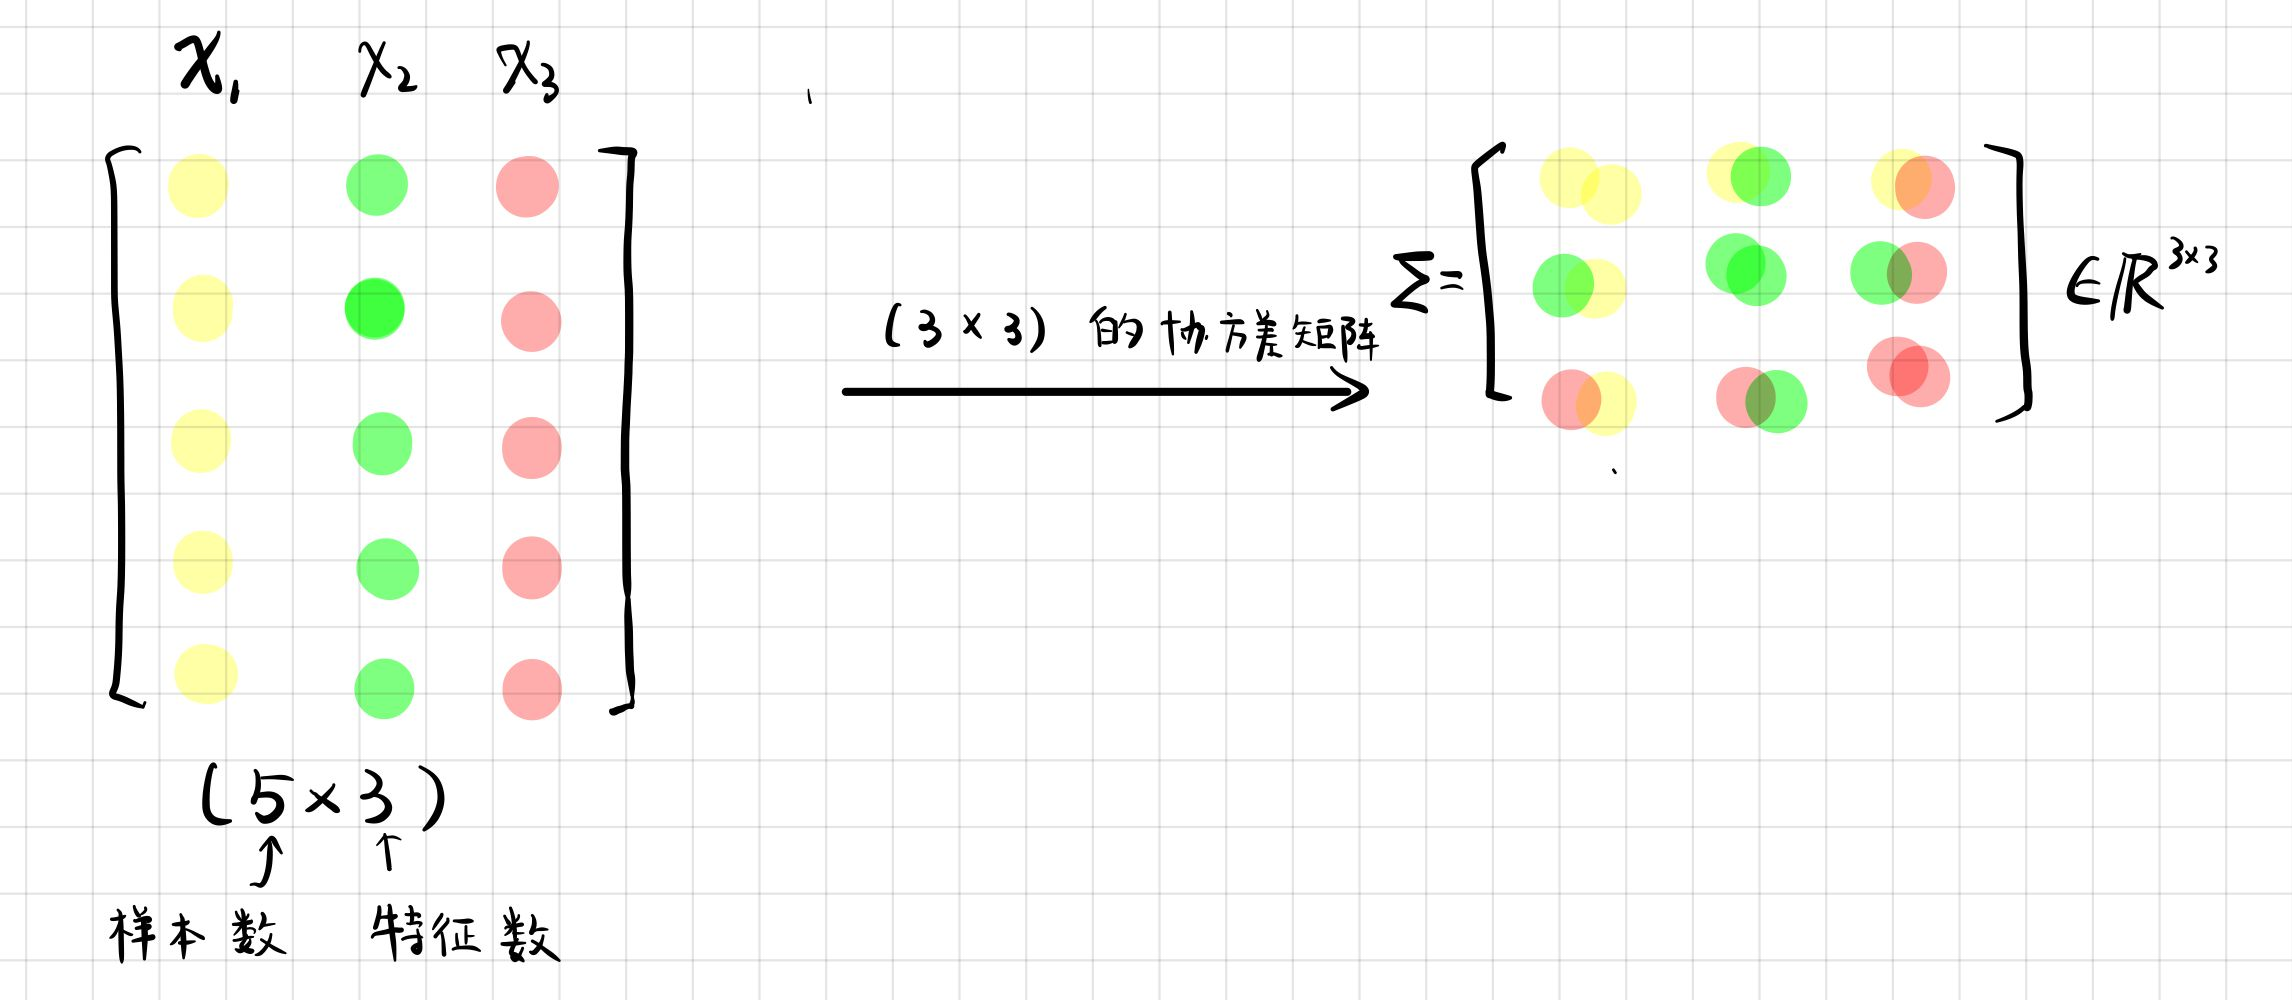
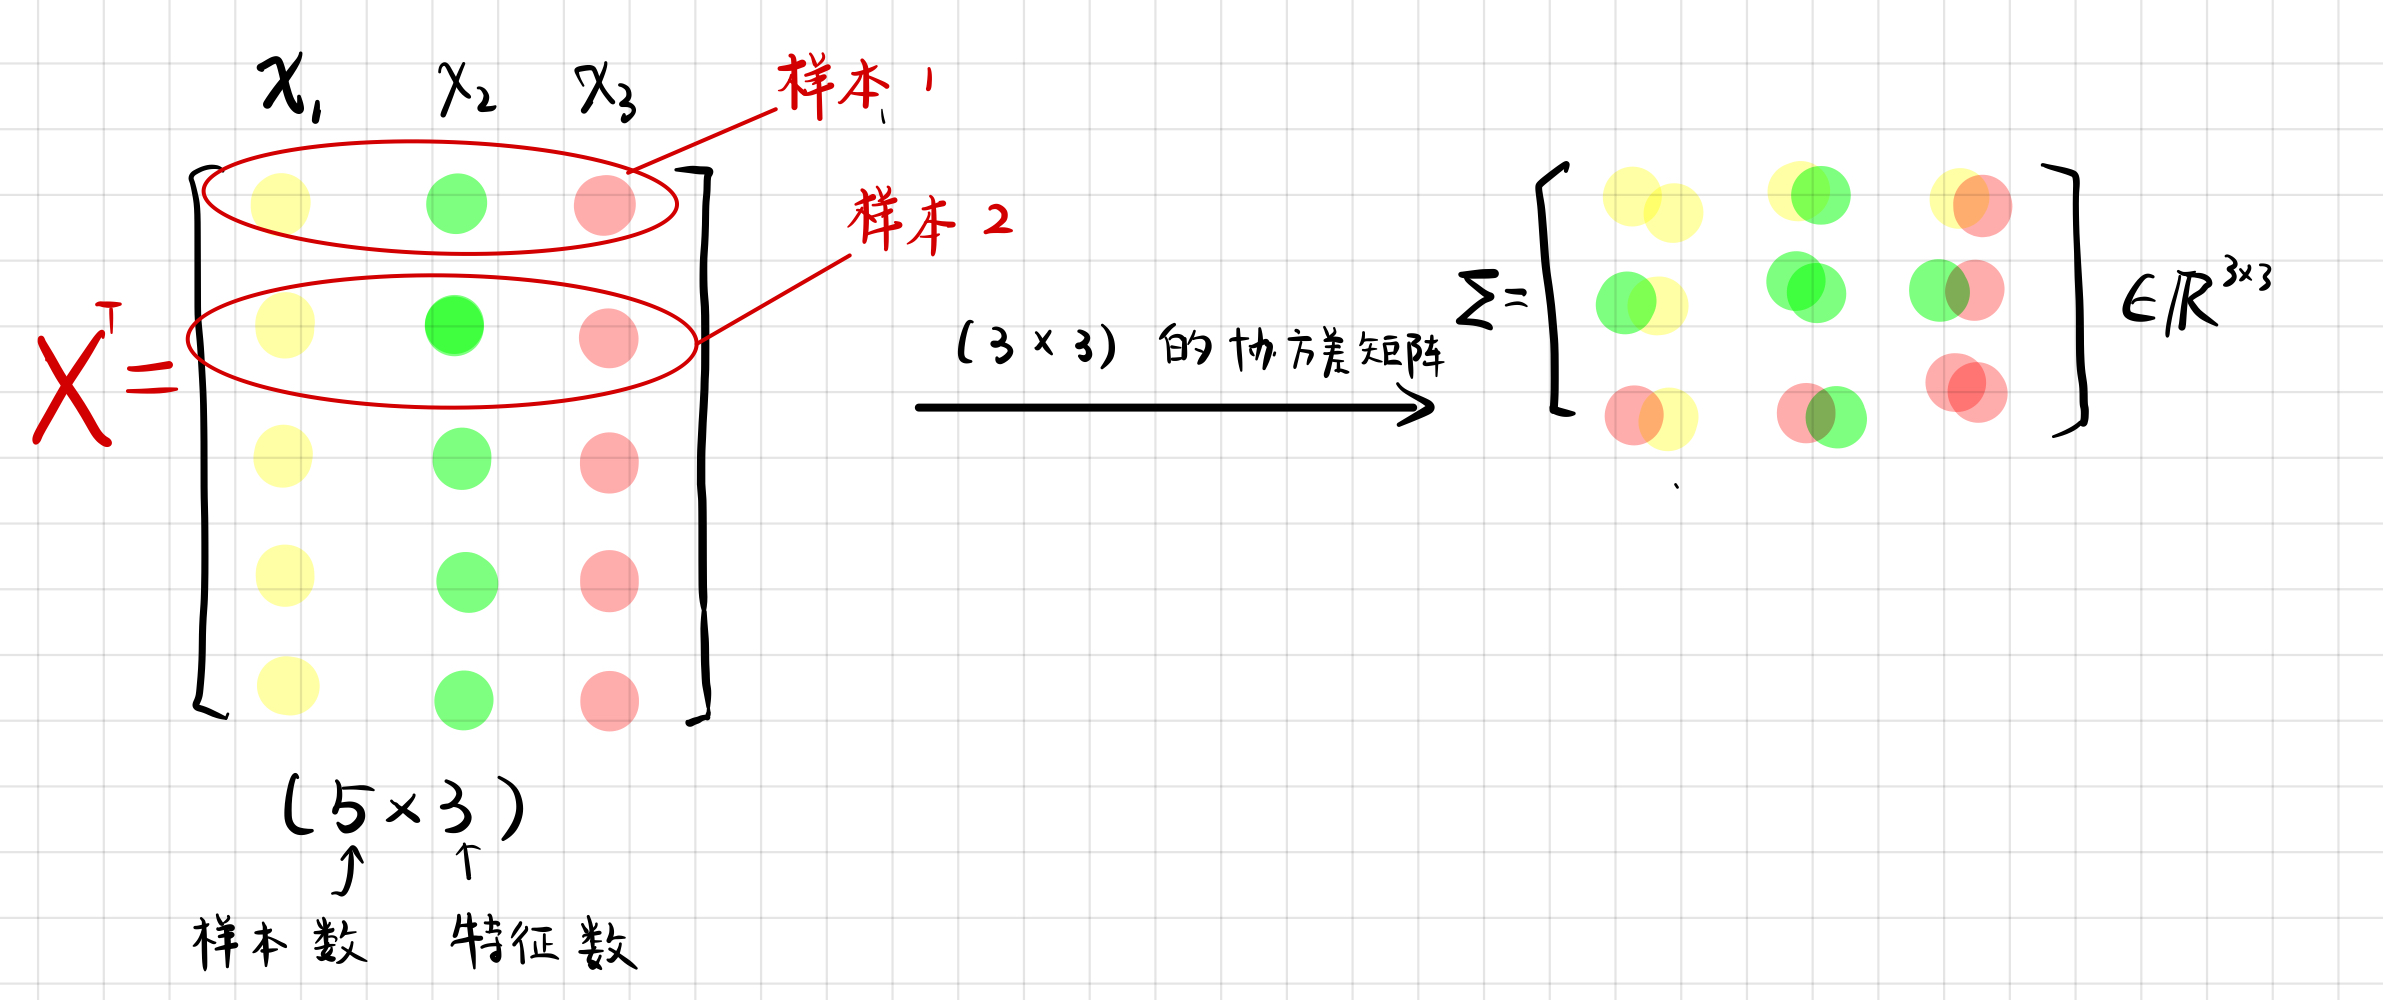
update.sh

diff --git a/posts/20210101-UCAS-PRML-review-IV.md b/posts/20210101-UCAS-PRML-review-IV.md
@@ -68,7 +68,7 @@ K-L（Karhunen-Loeve） 变换即 PCA。
 - （1）协方差矩阵：计算不同维度之间的协方差。
 
   - 如果样本有三个特征，则计算出来的协方差矩阵为 $3 \times 3$
-  - `cov(X')`：传入的样本矩阵`X` 的**行**表示的是样本数量，转置之后 $X'$ 列为特征，计算协方差矩阵。
+  - `cov(X')`：传入的样本矩阵`X` 的**行**表示的是特征，转置之后 $X'$ 列为特征，计算协方差矩阵。
     - **协方差矩阵计算的是不同维度之间的协方差，而不是不同样本之间的。**因此，⚠要注意样本矩阵的行和列表示什么，思考在计算的时候要不要进行转置。
   - [协方差、方差、协方差矩阵的计算公式](https://zhuanlan.zhihu.com/p/37609917)
   - 
@@ -79,9 +79,9 @@ K-L（Karhunen-Loeve） 变换即 PCA。
   - (i) $\left\vert \lambda E - A \right\vert = 0 $ 解出特征值 
   - (II) $(\lambda E - A) x = 0$ 解出特征向量
 - （3）如果要降到 2 维，则需要选择出最大的前两个特征值对应的特征向量，得到变换矩阵：
-  - $$\Phi = \left[ \begin{matrix} \eta_{1} &\eta_{2} \end{matrix} \right]  $$
+  - $$\Phi = \left[ \begin{matrix} \eta_{1} &\eta_{2} \end{matrix} \right]  $$
 
-- （4）由 $Y = \Phi X'$ 得到降维后的数据。
+- （4）由 $Y = \Phi’ X$ 得到降维后的数据。
   - ![](./20210101/2.jpeg)
 
 ### 4.2 Fisher

diff --git a/posts/20201231-UCAS-PRML-review-II.md b/posts/20201231-UCAS-PRML-review-II.md
@@ -104,9 +104,11 @@ $$y = (W^*)^T X$$
 **Fisher 计算**
 
 - $S_w$
-- $S_b$
+- $S_b$
 
-> 这里我对公式有些疑惑，还加上先验概率的情况，感觉就更加复杂了。
+> 这里我对公式有些疑惑，还加上先验概率的情况，感觉就更加复杂了。【已解决】
+>
+> [2020.01.01 #PRML# 散度矩阵（$S_w, S_b$）和 K-L 降维分类（5）](https://landodo.github.io/posts/20210101-UCAS-PRML-V)
 
 ## ✅ 彻底搞懂感知器
 
